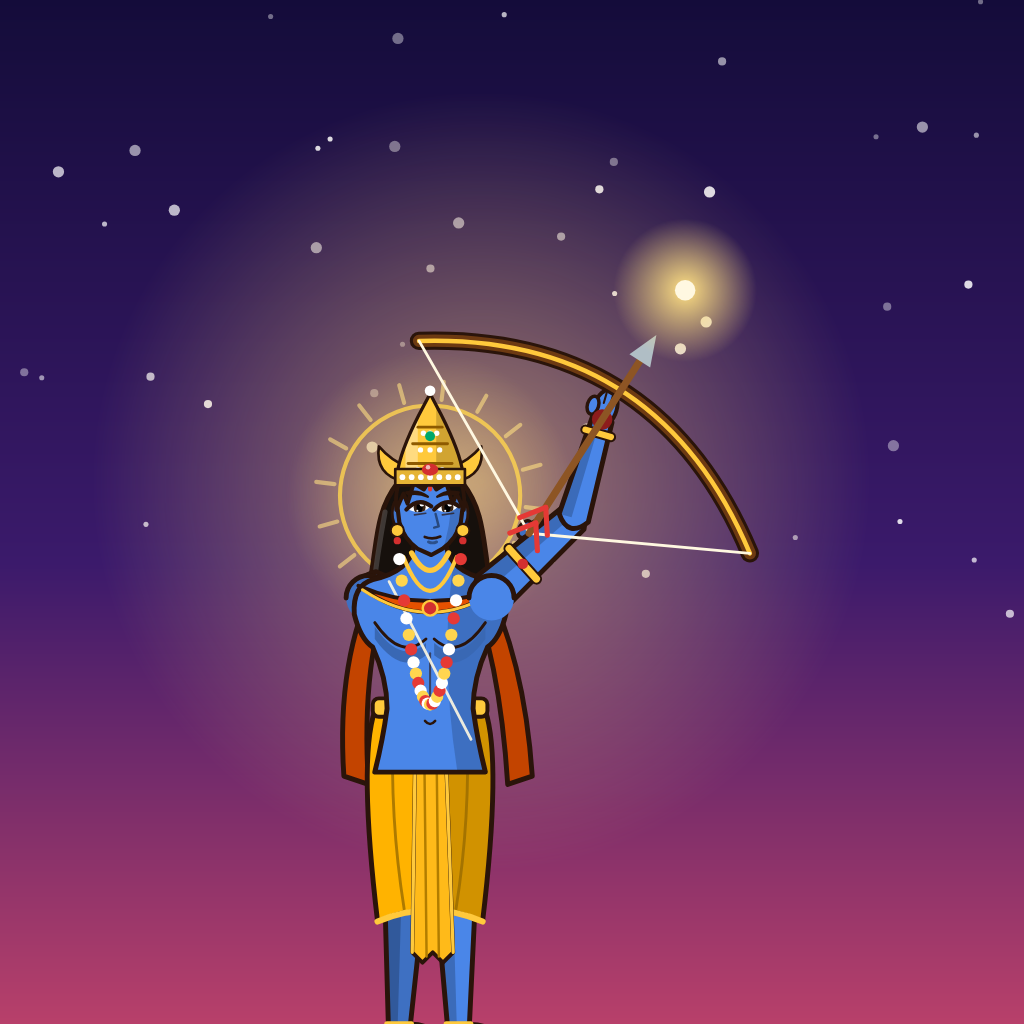
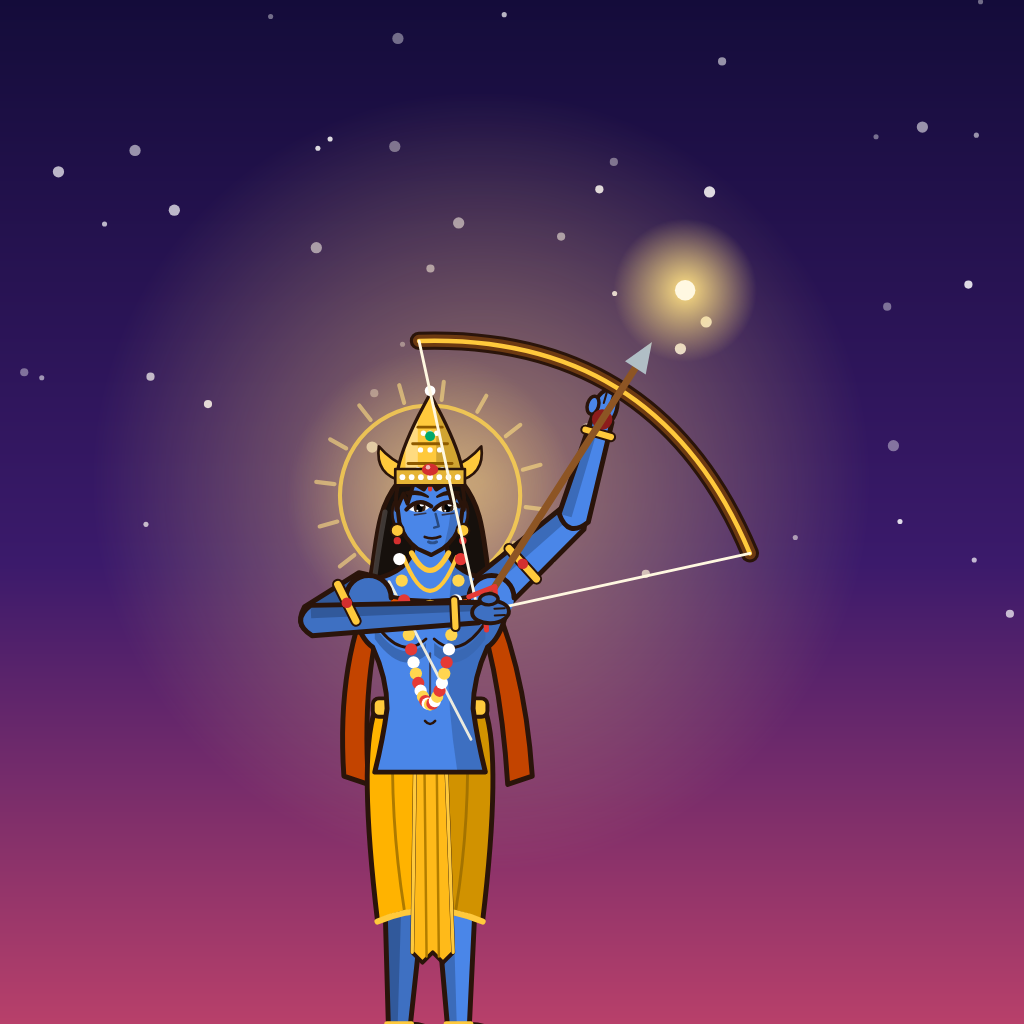
Archer pose: drawing hand holds the string at the chin, in front of the body (v2.4)
Claude-Session: https://claude.ai/code/session_01PP98TFQM3S6AJHiubhyNXY

diff --git a/app/src/main/java/com/satya/ramayana/art/Characters.kt b/app/src/main/java/com/satya/ramayana/art/Characters.kt
@@ -79,6 +79,8 @@ object Characters {
     private const val THIGH = 66f
     private const val SHIN = 62f
     const val HEAD_Y = -261f
+    /** How far back from the bow hand the string is drawn: to the chin. */
+    private const val DRAW_PULL = 112f
     private const val VANAR_K = 0.82f
 
     val RAM = Look(0xFF4A86E8.toInt(), 0xFFFFB300.toInt(), 0xFFE65100.toInt(), halo = true, mala = true)
@@ -143,8 +145,12 @@ object Characters {
         if (drawHead && v == null) hairBack(c, look, child)
         if (v == null && look.crown != CROWN_SAGE) drapeBack(c, look, t, b)
 
-        // back arm (+ Hanuman's gada resting on his shoulder)
-        drawArm(c, -SHOULDER_X * b, armB, skinBack, b, v == null || v.crown, false)
+        // back arm (+ Hanuman's gada resting on his shoulder). When its hand comes in front of the
+        // chest it is drawn over the torso instead: for namaste/catching, and for an archer it goes
+        // on top of everything so the hand visibly holds the drawn string at the chin.
+        val aiming = !p.aim.isNaN()
+        val backInFront = aiming || p.namaste || p.catchPose
+        if (!backInFront) drawArm(c, -SHOULDER_X * b, armB, skinBack, b, v == null || v.crown, false)
         if (v != null && v.gada) {
             when {
                 p.flying -> gada(c, armB[2], armB[3], 160f)
@@ -174,6 +180,7 @@ object Characters {
         neck(c, skin)
         if (look.female) torsoFemale(c, look) else torsoMale(c, look, b, v)
         decorations(c, look, p, b, v)
+        if (backInFront && !aiming) drawArm(c, -SHOULDER_X * b, armB, skinBack, b, v == null || v.crown, false)
 
         // head
         if (drawHead) {
@@ -194,7 +201,10 @@ object Characters {
         // front arm
         drawArm(c, SHOULDER_X * b, armF, skin, b, v == null || v.crown, p.aim.isNaN())
         if (v != null && v.gada && !p.flying && !p.holdGada) gada(c, armF[2], armF[3], 12f)
-        if (!p.aim.isNaN()) bow(c, armF[2], armF[3], p.aim, p.drawn)
+        if (aiming) {
+            bow(c, armF[2], armF[3], p.aim, p.drawn)
+            drawArm(c, -SHOULDER_X * b, armB, skinBack, b, v == null || v.crown, false)
+        }
     }
 
     // --------------------------------------------------------------- skeleton
@@ -246,10 +256,10 @@ object Characters {
                 val dy = sin(p.aim)
                 fx = sfx + dx * 100f
                 fy = sy + dy * 100f
-                // the drawing hand pulls the string back to the chest
-                val pull = if (p.drawn) 66f else 30f
+                // the drawing hand pulls the string all the way back to the chin
+                val pull = if (p.drawn) DRAW_PULL else 30f
                 bx = fx - dx * pull
-                by = fy - dy * pull + 6f
+                by = fy - dy * pull
                 fb = 1f
                 bb = 1f
             }
@@ -285,6 +295,11 @@ object Characters {
         }
         ik(sfx, sy, fx, fy, fb, armF)
         ik(sbx, sy, bx, by, bb, armB)
+        if (!p.aim.isNaN() && p.drawn) {
+            // archer's drawing arm: elbow held out at shoulder height, hand at the chin
+            armB[0] = sbx - 28f; armB[1] = sy + 14f
+            armB[2] = bx; armB[3] = by
+        }
     }
 
     /** Two-bone IK. [bend] picks which side the elbow goes. */
@@ -1172,12 +1187,12 @@ object Characters {
         c.drawPath(path, P.s(0xFF6D3A12.toInt(), 6f))
         c.drawPath(path, P.s(Ui.GOLD, 2.2f))
         c.drawCircle(hx, hy, 5f, P.f(0xFF8D1C1C.toInt()))
-        val pull = if (drawn) 66f else 6f
+        val pull = if (drawn) DRAW_PULL else 6f
         val sx = hx - dx * pull
         val sy = hy - dy * pull
         c.drawLine(tipX1, tipY1, sx, sy, P.s(0xFFFFF8E1.toInt(), 1.4f))
         c.drawLine(tipX2, tipY2, sx, sy, P.s(0xFFFFF8E1.toInt(), 1.4f))
-        if (drawn) arrow(c, sx, sy, aim, 100f, false)
+        if (drawn) arrow(c, sx, sy, aim, pull + 30f, false)
     }
 
     fun arrow(c: Canvas, x: Float, y: Float, angle: Float, len: Float = 110f, golden: Boolean = false) {

diff --git a/CLAUDE.md b/CLAUDE.md
@@ -7,6 +7,7 @@ Every code change must bump the app version in `app/build.gradle.kts`:
 - Add a line to the changelog below with the new version and what changed.
 
 ## Changelog
+- **2.4 (7)** — Ram's string-pulling hand (and both hands in namaste or catching) is now drawn in front of the chest instead of being hidden behind it — fixes the bow pose in the game and the icons.
 - **2.3 (6)** — New launcher and Play Store icon: Shri Ram drawing his bow on a saffron sunburst (chosen from three designs in `play-store/icon-options/`).
 - **2.2 (5)** — Long button labels (e.g. "Continue – Stage 1 · Level 1") now shrink to fit. New launcher icon (Shri Ram on a saffron sunburst, adaptive + round). Debug-only hooks to export store art and 4K screenshots (`--ez promo true`, `--es shot WxH --ef delay s --ei progress n`). Play Store listing, privacy policy and graphics in `play-store/`.
 - **2.1 (4)** — Swayamvar (Stage 3): Levels 1 and 2 now end with Ram holding the strung bow high; Shiva's bow only breaks on Level 3, just before the wedding.
